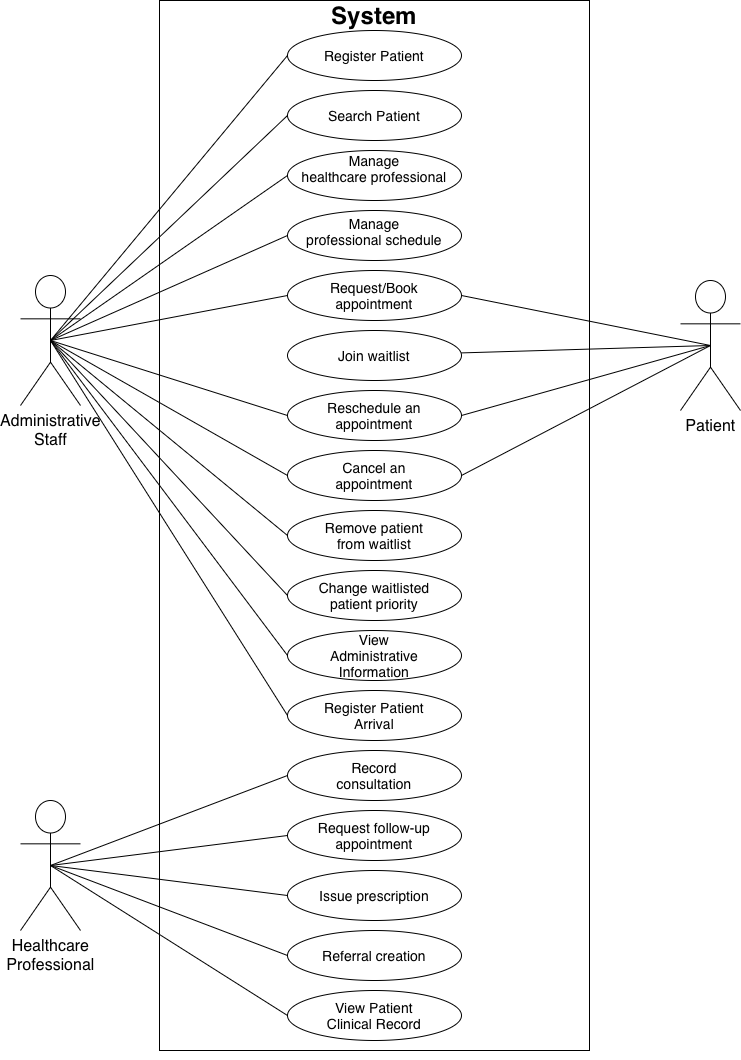
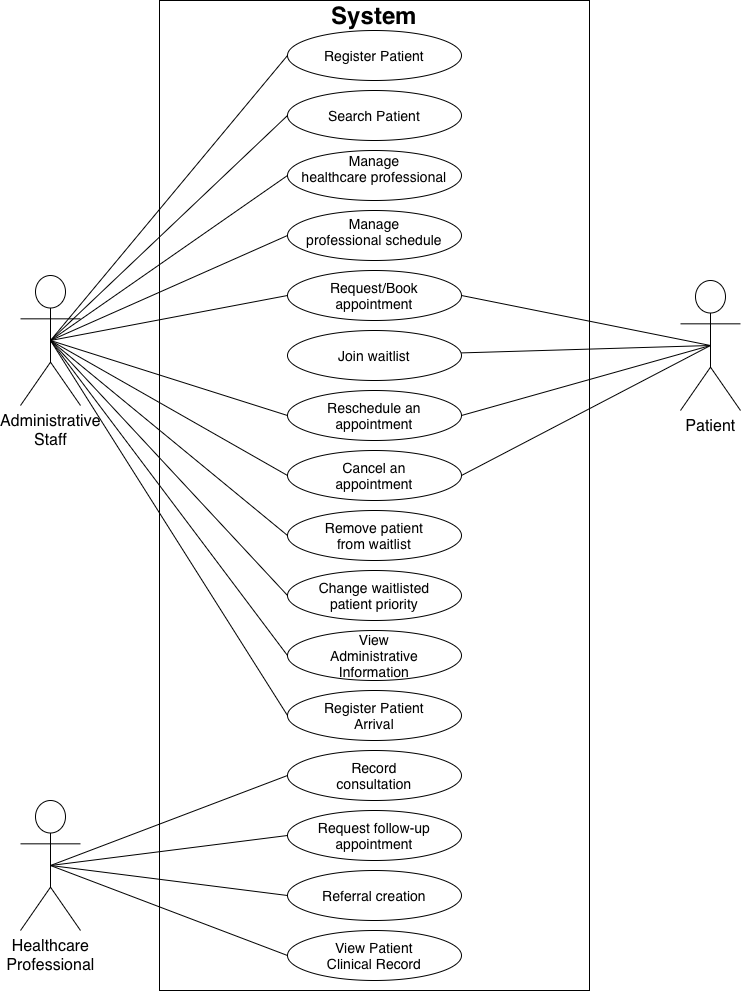
use cases: removed prescription and added additional notes

diff --git a/artifacts/FullyDressedUseCases/RecordConsultation.md b/artifacts/FullyDressedUseCases/RecordConsultation.md
@@ -5,17 +5,17 @@
 |---|---|
 | **ID** | UC-1 |
 | **Title** | Record Consultation |
-| **Description** | This use case allows the healthcare professional to record a consultation details during an apppointment. The healthcare professionl records observations, diagnoses, treatment recommendations, and follow-up requirements as needed. The system saves  consultation in the patient's record and links to the correspoonding appointment.|
+| **Description** | This use case allows the healthcare professional to record a consultation details during an apppointment. The healthcare professionl records observations, diagnoses, treatment recommendations, and follow-up requirements and additional notes as needed. The system saves  consultation in the patient's record and links to the corresponding appointment.|
 | **Primary Actor** | Healthcare Professional |
 | **Stakeholders and Interests** | **Healthcare Professional:** Wants to record all  consultation details <br> **Patient:** Wants their consultation details to be saved as a reference for their treatment plan. |
 | **Pre-Conditions** | 1. The appointment already exists and has a unique AppointmentID.<br> 2. The healthcare professional has authorization to record consultations. |
-| **Post-Conditions** | **Success:**<br> The consultation details are saved in the system, including observations, diagnoses, treatment recommendations, and follow-up requirements as needed. The consultation is associated with the corresponding appointment and patient. The system displays a confirmation message. <br><br> **Failure:**<br> 1. If the healthcare professional is not authorized to access the selected appointment, the system displays an error message: "Access Denied." No consultation is recorded.<br> 2. If the healthcare professional submits invalid consultation details, the system displays an error message. The invalid details are not saved, and the healthcare professional can correct the information and try again. |
+| **Post-Conditions** | **Success:**<br> The consultation details are saved in the system, including observations, diagnoses, treatment recommendations, and follow-up requirements and/or additional notes as needed. The consultation is associated with the corresponding appointment and patient. The system displays a confirmation message. <br><br> **Failure:**<br> 1. If the healthcare professional is not authorized to access the selected appointment, the system displays an error message: "Access Denied." No consultation is recorded.<br> 2. If the healthcare professional submits invalid consultation details, the system displays an error message. The invalid details are not saved, and the healthcare professional can correct the information and try again. |
 
-| **Inputs** | 1. appointmentID (Identifier)<br>2. observations (Text)<br>3. diagnoses (Text)<br>4. treatmentRecommendation (Text)<br>5. followUpRequirements (Text, if needed) |
+| **Inputs** | 1. appointmentID (Identifier)<br>2. observations (Text)<br>3. diagnoses (Text)<br>4. treatmentRecommendation (Text)<br>5. followUpRequirements (Text, if needed)<br>5. additionalNotes (Text, if needed) |
 |---|---|
 | **Outputs** | **Success:**<br>1. Appointment details (patientID, appointmentDate, status).<br>2. Confirmation message: "Consultation has been recorded."<br><br>**Failure:**<br>1. Error message: "Access Denied" if the healthcare professional is not authorized.<br>2. Error message if the consultation details are invalid. |
-| **Main Success Scenario** | 1. The healthcare professional selects an appointment using its appointmentID.<br>2. The system checks that the healthcare professional is authorized to access the appointment.<br>3. The system displays the appointment details, including patientID, appointmentDate, and status.<br> 4. The healthcare professional enters consultation details, including observations, diagnoses, treatment recommendations, and follow-up requirements as needed.<br>5. The healthcare professional submits the consultation details.<br>6. The system checks if the submitted details are valid<br>7. The system saves the consultation and links it with the correct appointment and patient.<br>8. The system displays a confirmation message: "Consultation has been recorded." |
+| **Main Success Scenario** | 1. The healthcare professional selects an appointment using its appointmentID.<br>2. The system checks that the healthcare professional is authorized to access the appointment.<br>3. The system displays the appointment details, including patientID, appointmentDate, and status.<br> 4. The healthcare professional enters consultation details, including observations, diagnoses, treatment recommendations,  follow-up requirements as needed and additional notes as needed.<br>5. The healthcare professional submits the consultation details.<br>6. The system checks if the submitted details are valid<br>7. The system saves the consultation and links it with the correct appointment and patient.<br>8. The system displays a confirmation message: "Consultation has been recorded." |
 | **Extensions (Alternative / Failure Scenarios)** | **2a. Healthcare professional is not authorized:**<br>1. The system displays an error message: "Access Denied."<br>2. No consultation is will be recorded Use case ends.<br><br>**6a. Invalid consultation details:**<br>1. The system detects that the consultation details are invalid.<br>2. The system displays an error message <br>3. The healthcare professional corrects the consultation details.<br>4. The use case continues at Step 5. |
 | **Special Requirements** | 1. Only authorized healthcare professionals can record consultation details. <br>2. Consultations must be linked to the correct patient and appointment.<br>3. Patient information need to be protected from unauthorized access. |
-| **Technology and Data Variations List** |  Consultation details will be different based on whether diagnoses, treatment recommendations, or follow-up requirements are applicable.<br>|
+| **Technology and Data Variations List** |  Consultation details will be different based on whether diagnoses, treatment recommendations, follow-up requirements, or additional notes are applicable.<br>|
 | **Open Issues** | 1. What rules will the system use to  decide whether consultation details are valid?<br>2. Can healthcare professionals edit consultation details after they have been saved?<br>|

diff --git a/artifacts/initial-requirements.md b/artifacts/initial-requirements.md
@@ -16,8 +16,7 @@
 | Cancel an Appointment | Cancels an existing appointment and updates its status to cancelled in the system. The system then automatically checks for eligible waitlisted patients that can takeover the newly open slot. | Administrative Staff, Patient |
 | Reschedule an Appointment |Changes an existing appointment to another available date or time after checking the healthcare professional's availability and applicable scheduling constraints.| Administrative Staff, Patient |
 | Referral creation | Creates a specialist consultation request identifying the patient, referring professional, reason for referral, requested specialty or profession, priority, and referral status. A referral may result in one or more appointments. | Healthcare Professional |
-| Record Consultation | Records observations, diagnoses, treatments, and follow-up instructions in the patient's clinical record. Can include prescriptions and recommendations for follow-up appointments when necessary. | Healthcare Professional |
-| Issue Prescription | Creates a prescription for a patient containing one or more medications when needed. | Healthcare Professional |
+| Record Consultation | Records observations, diagnoses, treatments, and follow-up instructions in the patient's clinical record. Can include recommendations for follow-up appointments and additional notes when necessary. | Healthcare Professional |
 | Manage Healthcare Professional | Registers or updates healthcare professional information, including specialties and clinic locations. | Administrative Staff |
 | Manage Professional Schedule | Defines healthcare professional availability by location and checks for scheduling conflicts across locations. | Administrative Staff |
 | Request Follow-Up Appointment | Allows a healthcare professional to request a follow-up appointment after a consultation. The appointment is scheduled through the Book Appointment process. | Healthcare Professional |
